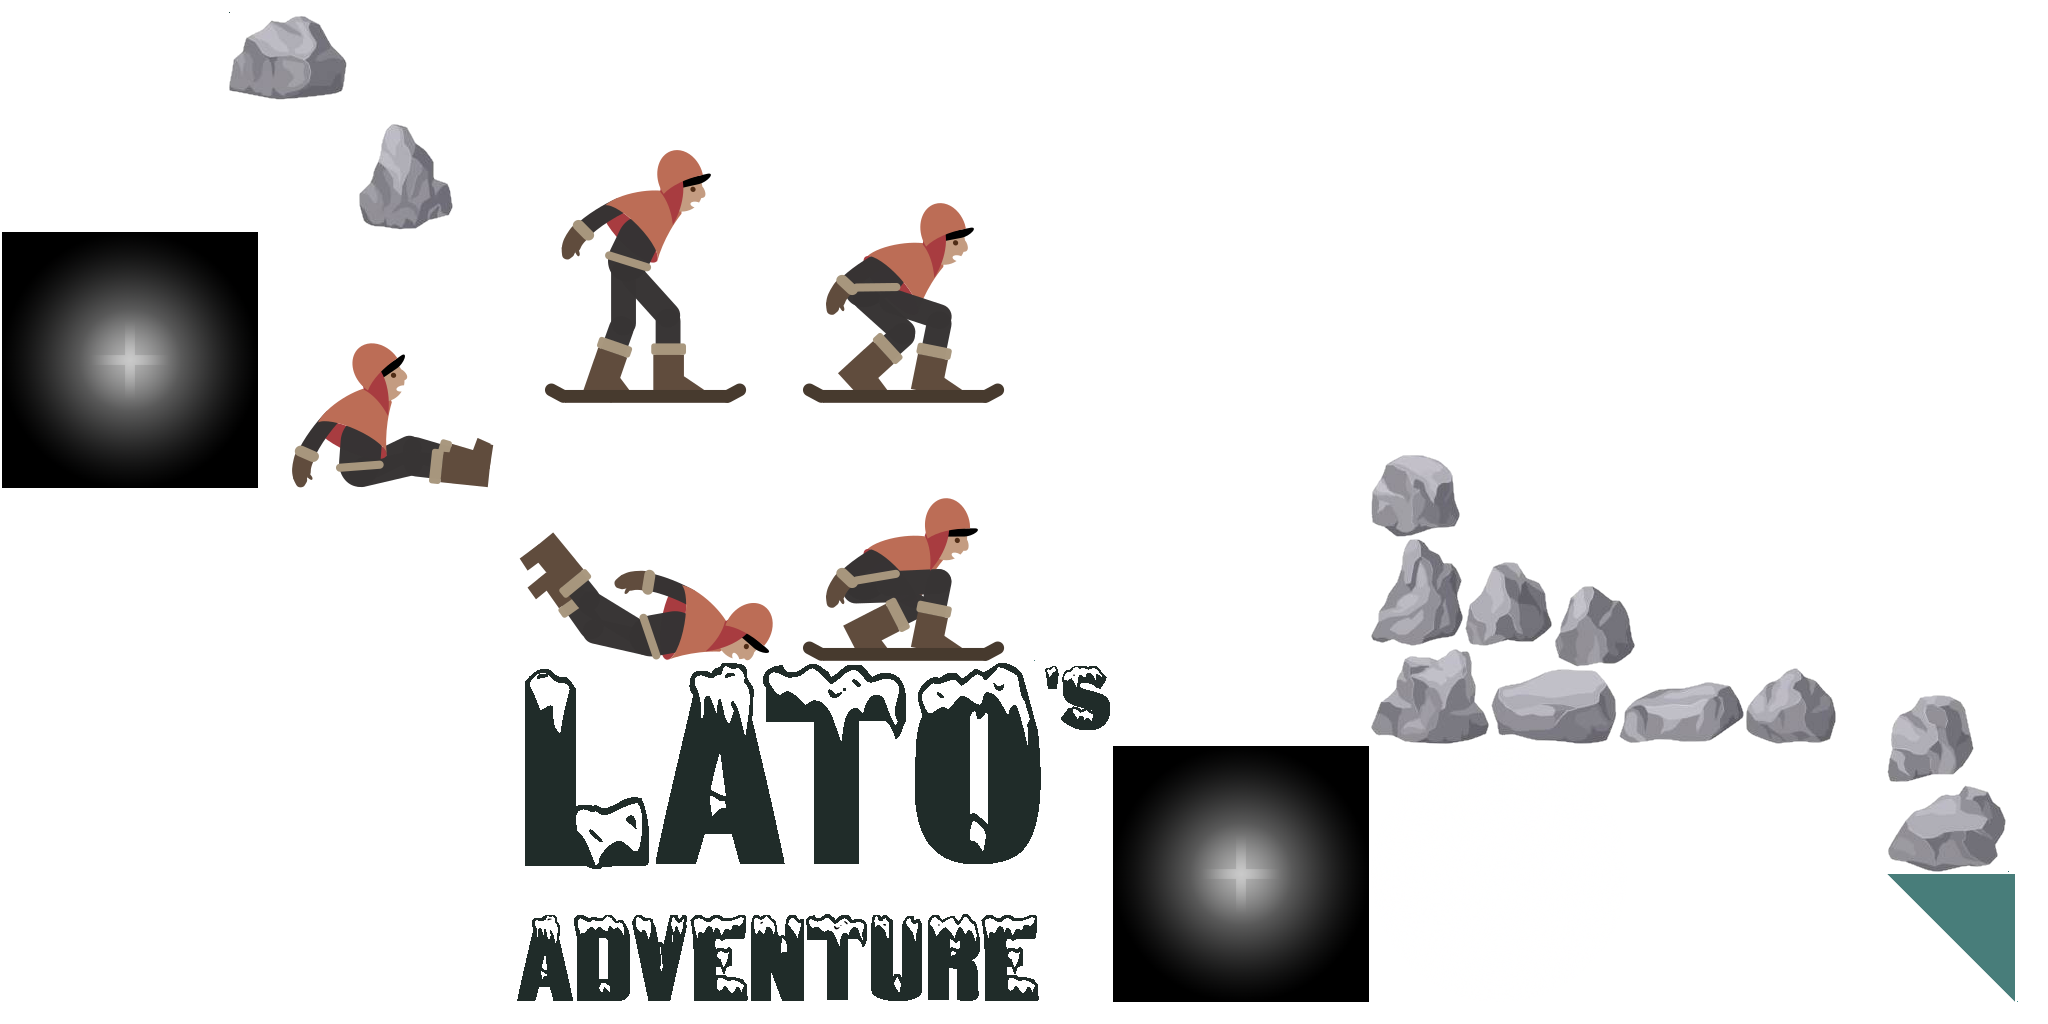
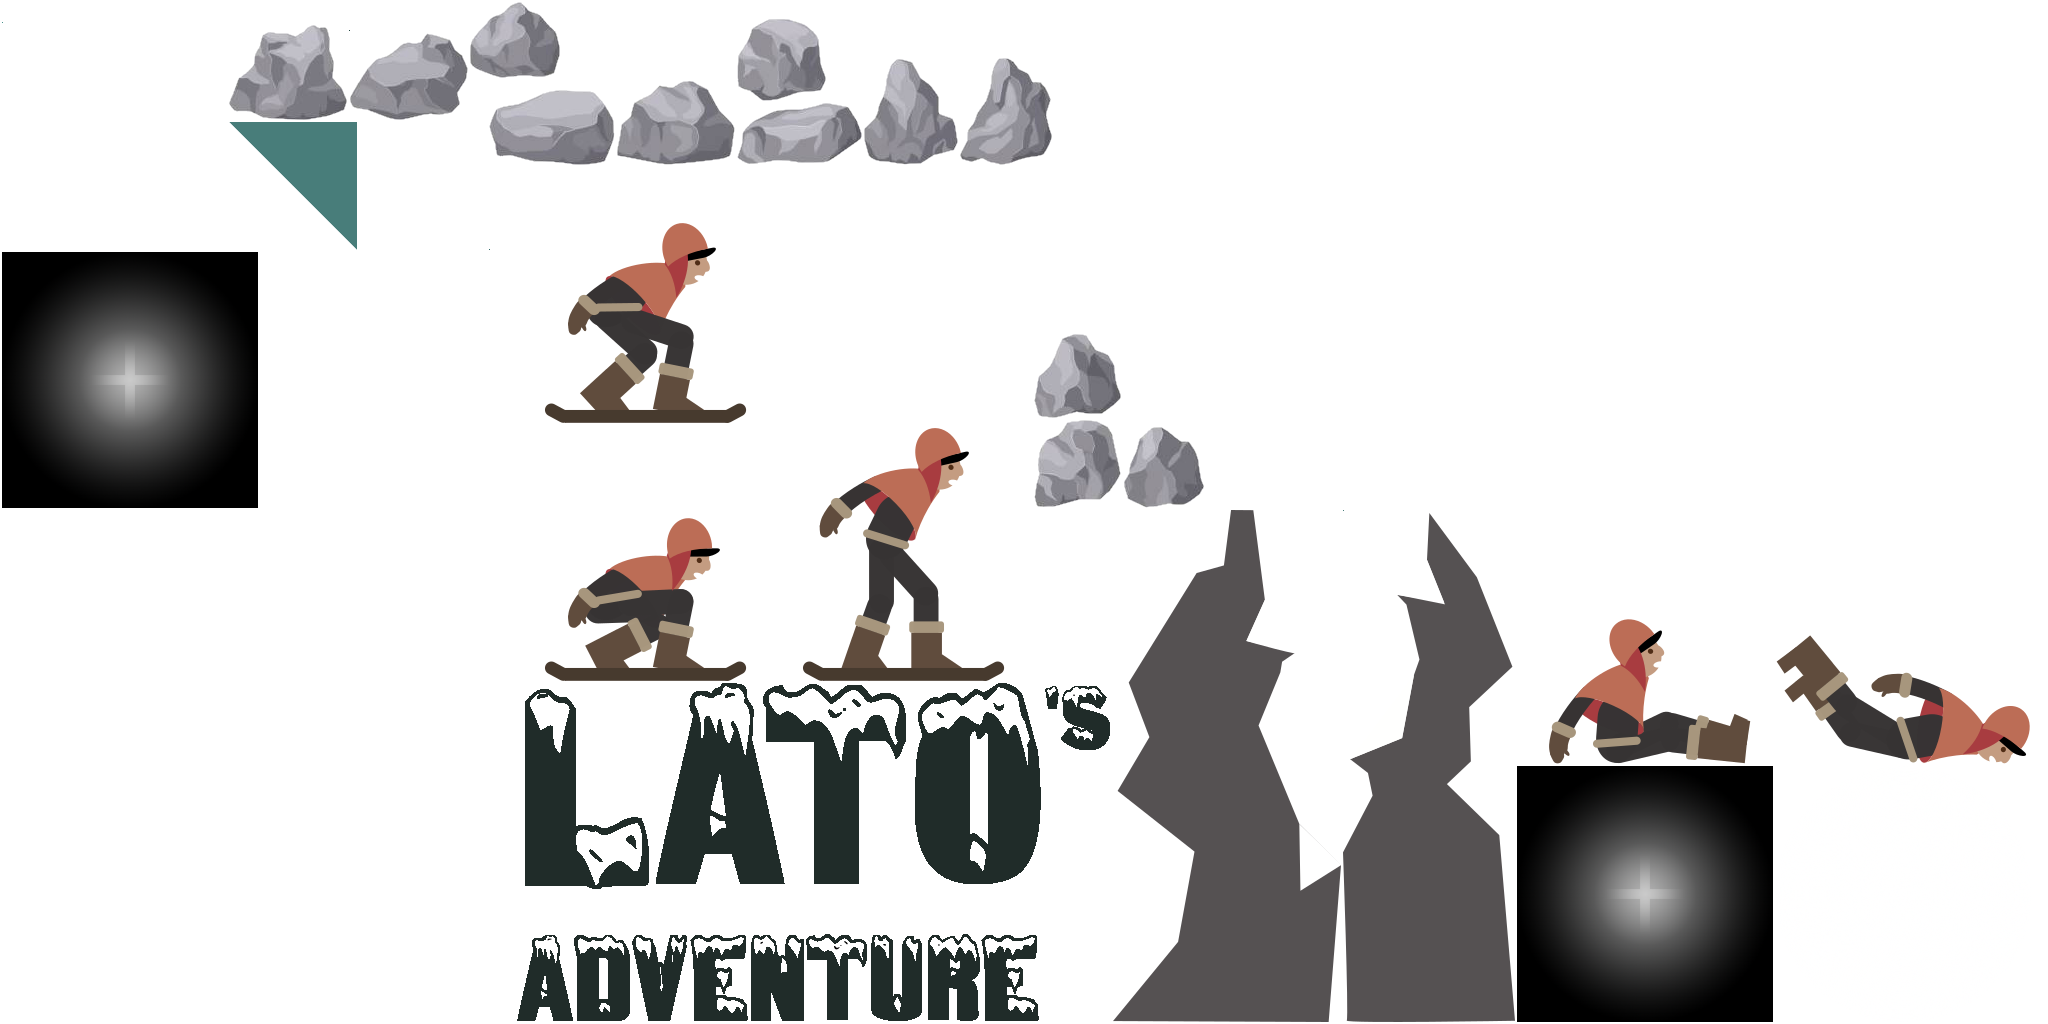
add cliffs and adjusted them to the corners of the abyss

diff --git a/p/core/src/ardash/lato/actors3/CliffLeft.java b/p/core/src/ardash/lato/actors3/CliffLeft.java
@@ -1,0 +1,44 @@
+package ardash.lato.actors3;
+
+import com.badlogic.gdx.graphics.Color;
+import com.badlogic.gdx.graphics.g2d.TextureAtlas.AtlasRegion;
+import com.badlogic.gdx.graphics.g3d.utils.ModelBuilder;
+import com.badlogic.gdx.utils.Pool.Poolable;
+
+import ardash.gdx.scenes.scene3d.shape.Image3D;
+import ardash.lato.A;
+import ardash.lato.A.ARAsset;
+import ardash.lato.A.SpriteGroupAsset;
+import ardash.lato.actors.Performer;
+import ardash.lato.actors.Performer.Demise;
+import ardash.lato.actors.Performer.Pose;
+import ardash.lato.weather.EnvColors;
+
+public class CliffLeft extends Image3D implements TerrainItem , Poolable{
+	
+	public CliffLeft(float x, float y) { //, float width, float height) {
+		super(getTextureRegion(),getModelBuilder());
+		setName("CliffLeft");
+		setTag(Tag.MEGAFRONT); // cliffs must be drawn on top of ( in front of the second wave drawer)
+		setScale(0.04f, 0.04f, 1);
+		setPosition(x, y);
+		reset();
+		setColor(Color.WHITE); // The other env colours will draw it in the correct shading
+	}
+	
+	@Override
+	public void reset() {
+	}
+
+	/**
+	 * -1 for random
+	 */
+	private static AtlasRegion getTextureRegion() {
+		return A.getTextureRegion(ARAsset.CLIFF_LEFT);
+	}
+
+	private static ModelBuilder getModelBuilder() {
+		return new ModelBuilder(); // TODO Pool or reuse a static instance
+	}
+
+}

diff --git a/p/core/src/ardash/lato/actors/WaveDrawer.java b/p/core/src/ardash/lato/actors/WaveDrawer.java
@@ -32,7 +32,7 @@ public class WaveDrawer extends Group3D implements Disposable, AmbientColorChang
 	/**
 	 * Everything that is more than this far behind the Performer can be deleted form the stage
 	 */
-	public static final float PASSED_TERRAIN = 200f; // longest possible terrain
+	public static final float PASSED_TERRAIN = 200f; // longest possible terrain * 2 (if cull to closely then cliffs are not attached to the corners correctly.)
 
 	/**
 	 * If there is no terrain this much in front of the Performer, new Terrain should be created.
@@ -43,7 +43,7 @@ public class WaveDrawer extends Group3D implements Disposable, AmbientColorChang
 	/**
 	 * The size of a step. The amount of meters to move forward to draw the next terrain segment.
 	 */
-	public static final float DRAW_STEPS=0.8f;
+	public static final float DRAW_STEPS=0.4f; // 8.8 good with edges of abyss
 
 	private final ModelBuilder modelBuilder = new ModelBuilder();
 	private AdvShapeRenderer sr;

diff --git a/p/core/src/ardash/lato/terrain/Canyon.java b/p/core/src/ardash/lato/terrain/Canyon.java
@@ -3,7 +3,10 @@ package ardash.lato.terrain;
 import com.badlogic.gdx.math.Interpolation;
 import com.badlogic.gdx.math.Vector2;
 
+import ardash.gdx.scenes.scene3d.shape.Image3D;
 import ardash.lato.actors3.AbyssCollider;
+import ardash.lato.actors3.CliffLeft;
+import ardash.lato.actors3.TerrainItem;
 import ardash.lato.terrain.TerrainSeg.TSType;
 
 /**
@@ -21,5 +24,9 @@ public class Canyon extends Section {
 		// note: we can't use the collider to show fog
 		surroundingItems.add(new AbyssCollider(9, -30, 17, 24.5f));
 		
+		// cliffs can't be attached perfectly to the edge, because the share renderer moves it slightly, especially when removing old items
+		TerrainItem cliffLeft = new CliffLeft(4.42f,-17.95f); 
+		surroundingItems.add(cliffLeft);
+		// TODO don't do culling the t segments when a canyon is on the screen
 	}
 }

diff --git a/p/core/src/ardash/lato/screens/GameScreen.java b/p/core/src/ardash/lato/screens/GameScreen.java
@@ -301,7 +301,7 @@ public class GameScreen implements Screen {
 //						, -(stage.getCamera().position.y - performer.getCamSpot().y), 0);
 //				stage.getCamera().update();
 
-				System.out.println("cam move: " + performer.getCamSpot().x +" "+ performer.getCamSpot().y +" "+ lastz);
+//				System.out.println("cam move: " + performer.getCamSpot().x +" "+ performer.getCamSpot().y +" "+ lastz);
 				cam.moveTo(performer.getCamSpot().x, performer.getCamSpot().y, lastz, 0.3f);
 //				cam.moveTo(performer.getX(), performer.getY(), lastz, 0.3f);
 				cam.update();				

diff --git a/p/desktop/src/ardash/lato/DesktopLauncher.java b/p/desktop/src/ardash/lato/DesktopLauncher.java
@@ -40,7 +40,7 @@ public class DesktopLauncher {
         settings.maxWidth = 2048;
         settings.maxHeight = 2048;
 //		TexturePacker.process(settings, "./art/sprites/ui", "./android/assets", "ui");
-//		TexturePacker.process(settings, "../../texturepacker/scene", "../assets", "scene");
+		TexturePacker.process(settings, "../../texturepacker/scene", "../assets", "scene");
 		TexturePacker t; // keep this here, otherwise import gets always removed
 
 		

diff --git a/p/core/src/ardash/gdx/scenes/scene3d/Actor3D.java b/p/core/src/ardash/gdx/scenes/scene3d/Actor3D.java
@@ -49,7 +49,12 @@ import ardash.lato.screens.GameScreen;
 
 public class Actor3D extends ModelInstance implements Disposable , Cullable{
 	public enum Tag {
-		FRONT, BACK, CENTER
+		FRONT, BACK, CENTER,
+		
+		/**
+		 * Draw something in front if the second wave-drawer (cliffs)
+		 */
+		MEGAFRONT
 	}
 
 	private Tag tag;

diff --git a/p/core/src/ardash/gdx/scenes/scene3d/Stage3D.java b/p/core/src/ardash/gdx/scenes/scene3d/Stage3D.java
@@ -215,6 +215,8 @@ FogIntensityChangeListener, FogColorChangeListener, AmbientColorChangeListener, 
 				WaveDrawer wd = (WaveDrawer) firstChild;
 				wd.draw(modelBatch, environment, true);
 			}
+
+            root.draw(modelBatch, environment, Tag.MEGAFRONT);
     	}
     	else
     	{

diff --git a/p/core/src/ardash/lato/A.java b/p/core/src/ardash/lato/A.java
@@ -239,6 +239,8 @@ public class A {
 		// stones
 		STONE_0,STONE_1,STONE_2,STONE_3,STONE_4,STONE_5,STONE_6,STONE_7,STONE_8,STONE_9,STONE_10,STONE_11,
 		
+		CLIFF_LEFT, CLIFF_RIGHT,
+		
 		SUN_SHAPE, GLOW, FLARE,
 		ADD_FLARE, PAUSE, ADD_FLARE_A, TITLESCREEN, MOON_SHAPE;
 		@Override
